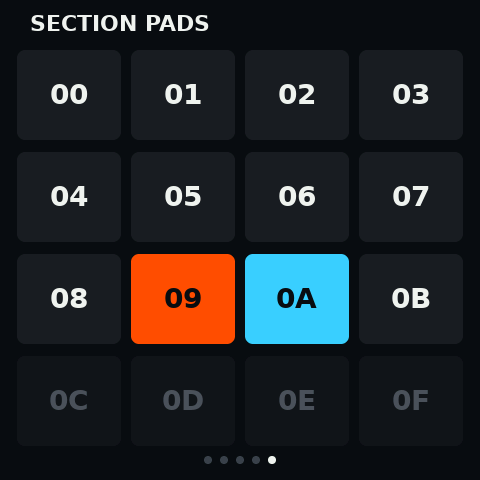
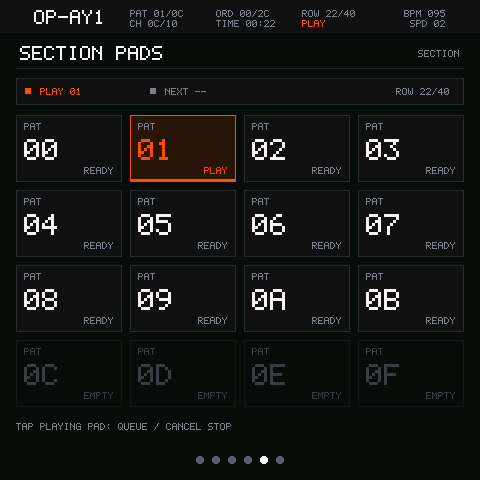
docs: update project description and current device gallery

diff --git a/README.md b/README.md
@@ -1,119 +1,127 @@
 # OP-Ay1
 
-A handheld tracker / music workstation prototype for the **ESP-Mosaico** board
-(ESP32-S31, 480×480 CO5300 display, ES8311 audio, CST9220 touch).
+A handheld tracker and music workstation for **ESP-Mosaico**: native synthesis,
+S3M playback and a pixel UI on a 480×480 touch display.
 
-It plays the built-in `aryx.s3m` module through a portable C S3M engine (48 kHz
-stereo), and drives a five-page GSP interface: waveform scope, pattern view,
-transport, a mixer, and a 4×4 section-pad launcher.
+**Current development:** [codex/synthesizer](https://github.com/AyalaKaguya/OP-Ay1/tree/codex/synthesizer)
+contains the six-page UI and four-voice synthesizer described below. The existing
+[v1.0.0 release](https://github.com/AyalaKaguya/OP-Ay1/releases/tag/v1.0.0)
+is the earlier five-page tracker player; its downloadable firmware has not been replaced.
 
-![OP-Ay1 pattern view](docs/images/pattern.png)
+![OP-Ay1 six-page device UI](docs/images/overview.png)
 
-## Features
+*Device captures · ESP-Mosaico · 2026-10-26. These are running firmware screenshots.*
 
-- **Portable S3M engine** – decoder, sequencer and mixer in plain C; no ESP-IDF
-  dependency except a priority-inheriting task lock. Handles speed/tempo effects,
-  portamento, volume slides, sample loops, panning and per-channel gain.
-- **Live monitoring** – per-channel peak meters, 2048-sample waveform scopes and
-  a master meter with clip detection.
-- **Mixer page** – dBFS-calibrated meters (green ≤ −12 dB, yellow ≤ −3 dB), a
-  scrollable channel list, dB faders with readout, and mute/solo with the usual
-  cascade behaviour.
-- **Section pads (clip launcher)** – 4×4 pads: a tap loops that pattern, a second
-  tap queues the next pad (blinking in tempo) and it takes over on the next
-  pattern boundary; tapping the playing pad queues a stop that closes after the
-  current pattern. During song playback the current and upcoming patterns are
-  shown.
-- **Robustness** – priority-inheriting engine mutex, UI stall watchdog (panic +
-  self-recovering reboot), task watchdog, larger ISR stack and a retained
-  pre-crash log ring readable through ESP-Iris.
+## What it does
 
-| PATTERN | MIX |
+- **Four-voice synthesizer** — subtractive and built-in wavetable synthesis;
+  saw, square, triangle and sine waves; a low-pass filter, ADSR and LFO per voice.
+  INIT, BASS, LEAD and PAD presets can be edited while playing.
+- **Touch performance** — hold a key, slide between notes and release into the
+  envelope tail. Octave controls and PANIC stay within reach. Synth notes remain
+  playable while the song is paused.
+- **S3M player** — a portable C decoder, sequencer and mixer at 48 kHz stereo,
+  with tempo/speed effects, sample loops, panning and per-channel gain.
+- **Shared audio output** — tracker and synth mix through one floating-point bus;
+  final saturation, master metering and clip detection happen at the output.
+- **Mixer** — dB faders, dBFS meters, mute/solo and a scrollable channel list.
+  The master volume controls the onboard codec separately from digital source gain.
+- **Section Pads** — a 4×4 Pattern launcher with queued switches and stops at
+  Pattern boundaries. The playing and upcoming patterns have distinct feedback.
+- **Shared native UI** — device and GSP simulator run the same C interaction
+  model and renderers. Scopes and Pattern view keep their original tracker look;
+  Playback, Mixer and Pads now use the same bitmap font and grid.
+
+Hardware: **ESP32-S31**, **CO5300 480×480 display**, **ES8311 audio** and
+**CST9220 touch** on the ESP-Mosaico board.
+
+## Six pages
+
+| WAVES | PATTERN |
 |---|---|
-| ![Pattern view](docs/images/pattern.png) | ![Mixer](docs/images/mix.png) |
+| ![Live channel waveforms](docs/images/waves.png) | ![Tracker Pattern view](docs/images/pattern.png) |
 
-| SECTION PADS | PLAYBACK |
+| PLAYBACK | MIXER |
 |---|---|
-| ![Section pads](docs/images/pads.png) | ![Playback](docs/images/playback.png) |
+| ![Song transport and speed](docs/images/playback.png) | ![Mixer with channel solo](docs/images/mix.png) |
 
-| WAVES | |
+| SECTION PADS | SYNTH |
 |---|---|
-| ![Waveforms](docs/images/waves.png) | |
+| ![Playing Pattern on the section pads](docs/images/pads.png) | ![Synth playing C4](docs/images/synth.png) |
+
+The Mixer capture shows solo while the song is paused, so its meters are zero.
+The Pad capture shows the state after a Pattern switch has completed.
 
 ## Controls
 
-- **Section pads** – tap to play a pattern in a loop; tap another to queue it;
-  tap the playing pad to queue a stop (tap again to cancel).
-- **Mix** – drag vertically in the list to scroll (start in the right-hand gutter
-  to avoid the faders). Fader law: 100 = 0 dB, 120 = +6 dB, 50 = −15 dB, 0 = mute.
-- **Playback** – play/pause are immediate; restart rewinds the song and leaves pad
-  mode; speed presets are 0.5× / 1× / 1.5× / 2×.
-- **Hardware AI button** – short press play/pause, long press rewind.
+- **Navigation:** tap a bottom page dot or swipe outside captured controls.
+- **Playback:** play/pause is immediate; RESTART pauses and rewinds the song.
+  Speed presets are 0.5×, 1×, 1.5× and 2×.
+- **Mixer:** drag a fader horizontally; drag the list vertically to scroll.
+  Use the right gutter to scroll without touching faders. Gain steps:
+  100 = 0 dB, 120 = +6 dB, 50 = −15 dB, 0 = silent.
+- **Section Pads:** tap a Pad to loop its Pattern; tap another to queue a switch.
+  Tap the playing Pad to queue a stop, then tap again to cancel it.
+- **Synth:** choose a preset and OSC / FILTER / ENV / LFO tab, adjust parameters,
+  then hold or slide across the keyboard. PANIC clears voices. Edits stay in RAM.
+- **AI button:** short press toggles song playback; long press pauses and rewinds.
 
-## Roadmap
+## Build and preview
 
-### Software
+This repository is the application. Place it at `projects/OP-Ay1` inside an
+ESP-Mosaico workspace with its pinned BSP and utility submodules initialized.
+Activate the workspace's exact ESP-IDF checkout before building:
 
-- [ ] **Synthesizer** – add a native voice engine (subtractive / wavetable) next to
-      S3M playback, with filter, envelope and LFO per voice.
-- [ ] **Sampler** – record/import samples, slice and map them to the section pads,
-      with per-pad gain and pitch.
-- [ ] **Sequencer** – step/clip sequencing, pattern chaining and a proper song mode
-      on top of the current order-list player.
-- [ ] Expand the module/track limits and add MIDI-over-USB input.
+- Target: `esp32s31`.
+- ESP-IDF: `7b9cc1ac79f865983f59bb8ff3ff43eb74ff1dbe`.
+- ESP-GSP: `1.5.1`; GSPC: `0.6.1`.
 
-### Hardware
-
-- [ ] **External DAC** – I2S DAC output for higher-quality audio than the on-board
-      codec path.
-- [ ] **Faders** – physical channel faders wired to the mixer page.
-- [ ] **Keyboard** – a key/pad matrix for note entry and performance.
-
-## Build and install
-
-Requirements: the workspace's ESP-Mosaico toolchain (ESP-IDF 6.2 dev, GSP 1.5.1,
-`gspc` 0.6.1) and a device running the retained Recovery image.
+From the workspace root, select the current development source and use the
+product CLI for installation and native preview:
 
 ```sh
-# build + install from source
+git -C projects/OP-Ay1 switch codex/synthesizer
 python mosaico.py iris system-update --project projects/OP-Ay1
-
-# or install a released ESP-Iris bundle
-python mosaico.py iris system-update --bundle OP-Ay1-1.0.0.irisfw
+python mosaico.py project sim --project projects/OP-Ay1 --interactive
 ```
 
-Prebuilt bundles are attached to [GitHub Releases](https://github.com/AyalaKaguya/OP-Ay1/releases).
+Installation uses retained **Vibe Mode** and an ESP-Iris `.irisfw` System Update
+bundle. Native preview requires a host C compiler. For code-only updates,
+`app-update` is available when the full partition table and resources match.
 
-`app-update` can be used for code-only iterations while the partition table is
-unchanged. The release artifact is the **ESP-Iris system-update bundle**
-(`.irisfw`), not a full-flash image: the retained Recovery image owns the
-bootloader and partition layout.
+Run the portable checks from the application directory:
 
-## Structure
+```sh
+python tools/test_synth.py
+python tools/test_audio.py
+python tools/test_ui_renderer.py
+python tools/test_ui_interaction.py
+```
 
-- `main` – composition root: Recovery support, engine, audio, display and GSP.
-- `components/tracker_engine` – portable S3M decoder / sequencer / mixer.
-- `components/app_audio` – DSP task, chunk ring and I2S writer.
-- `components/app_tracker` – GSP scene controller, canvas renderers, mix page and
-  section pads; `ui/` holds the authored scene and packed bundle.
-- `components/app_display` – BSP-to-GSP display setup.
-- `main/assets/aryx.s3m` – built-in song (12 patterns, 12 channels).
+See the [UI and simulator contract](https://github.com/AyalaKaguya/OP-Ay1/blob/codex/synthesizer/components/app_tracker/README.md)
+and [device verification record](https://github.com/AyalaKaguya/OP-Ay1/blob/codex/synthesizer/docs/implementation-validation.zh-CN.md)
+for ownership, test coverage and evidence. Native regression tests, simulator
+input checks and real-device installation/playback checks have passed; the
+single-note synth level was increased by 6 dB after listening feedback.
 
-## Known limitations
+## Limits and next steps
 
-- The bundled module has 12 patterns and 12 channels, so pads 0C–0F are dim and
-  mixer rows 0C–0F are inert.
-- A horizontal swipe inside the mixer list pages the scene; vertical drags scroll.
-- The old order-list editor has been replaced by the section-pad launcher.
+- Touch input currently supports one pointer. Four DSP voices do not imply
+  independent multitouch chord input.
+- Patch persistence, sample recording/import, a step sequencer and USB MIDI
+  are future work. Section Pads currently launch Patterns rather than edit steps.
+- The bundled song has 12 Patterns and 12 channels; Pad and mixer slots 0C–0F are empty.
+- Long-duration maximum-load stability and browser focus-loss cancellation remain
+  outside the completed checks. Occasional waveform-page timing spikes are
+  documented in the verification record.
+- External DAC output, physical faders and a keyboard matrix remain hardware goals.
 
 ## License
 
-Application code is Apache-2.0, see [LICENSE](LICENSE). Third-party dependencies
-(ESP-IDF, ESP-GSP, BSP, ESP-Iris, …) keep their own licenses and are not vendored
-here.
+Application code is **Apache-2.0**; see [LICENSE](LICENSE). Dependencies keep
+their own licenses.
 
-**Bundled music:** `main/assets/aryx.s3m` is © 1995 Karsten Koch (all rights
-reserved). ModArchive only licenses it for unmodified, unbundled redistribution;
-embedding it in a firmware image distributed to others requires the author's
-written permission. See [docs/store/licensing-aryx.md](docs/store/licensing-aryx.md)
-for the evidence and the pending permission request.
+**Bundled music:** `main/assets/aryx.s3m` is © 1995 Karsten Koch, all rights
+reserved. ModArchive permits unmodified, unbundled redistribution; embedding
+it in distributed firmware requires the author's written permission. See
+[the licensing record](docs/store/licensing-aryx.md) for evidence and release constraints.
